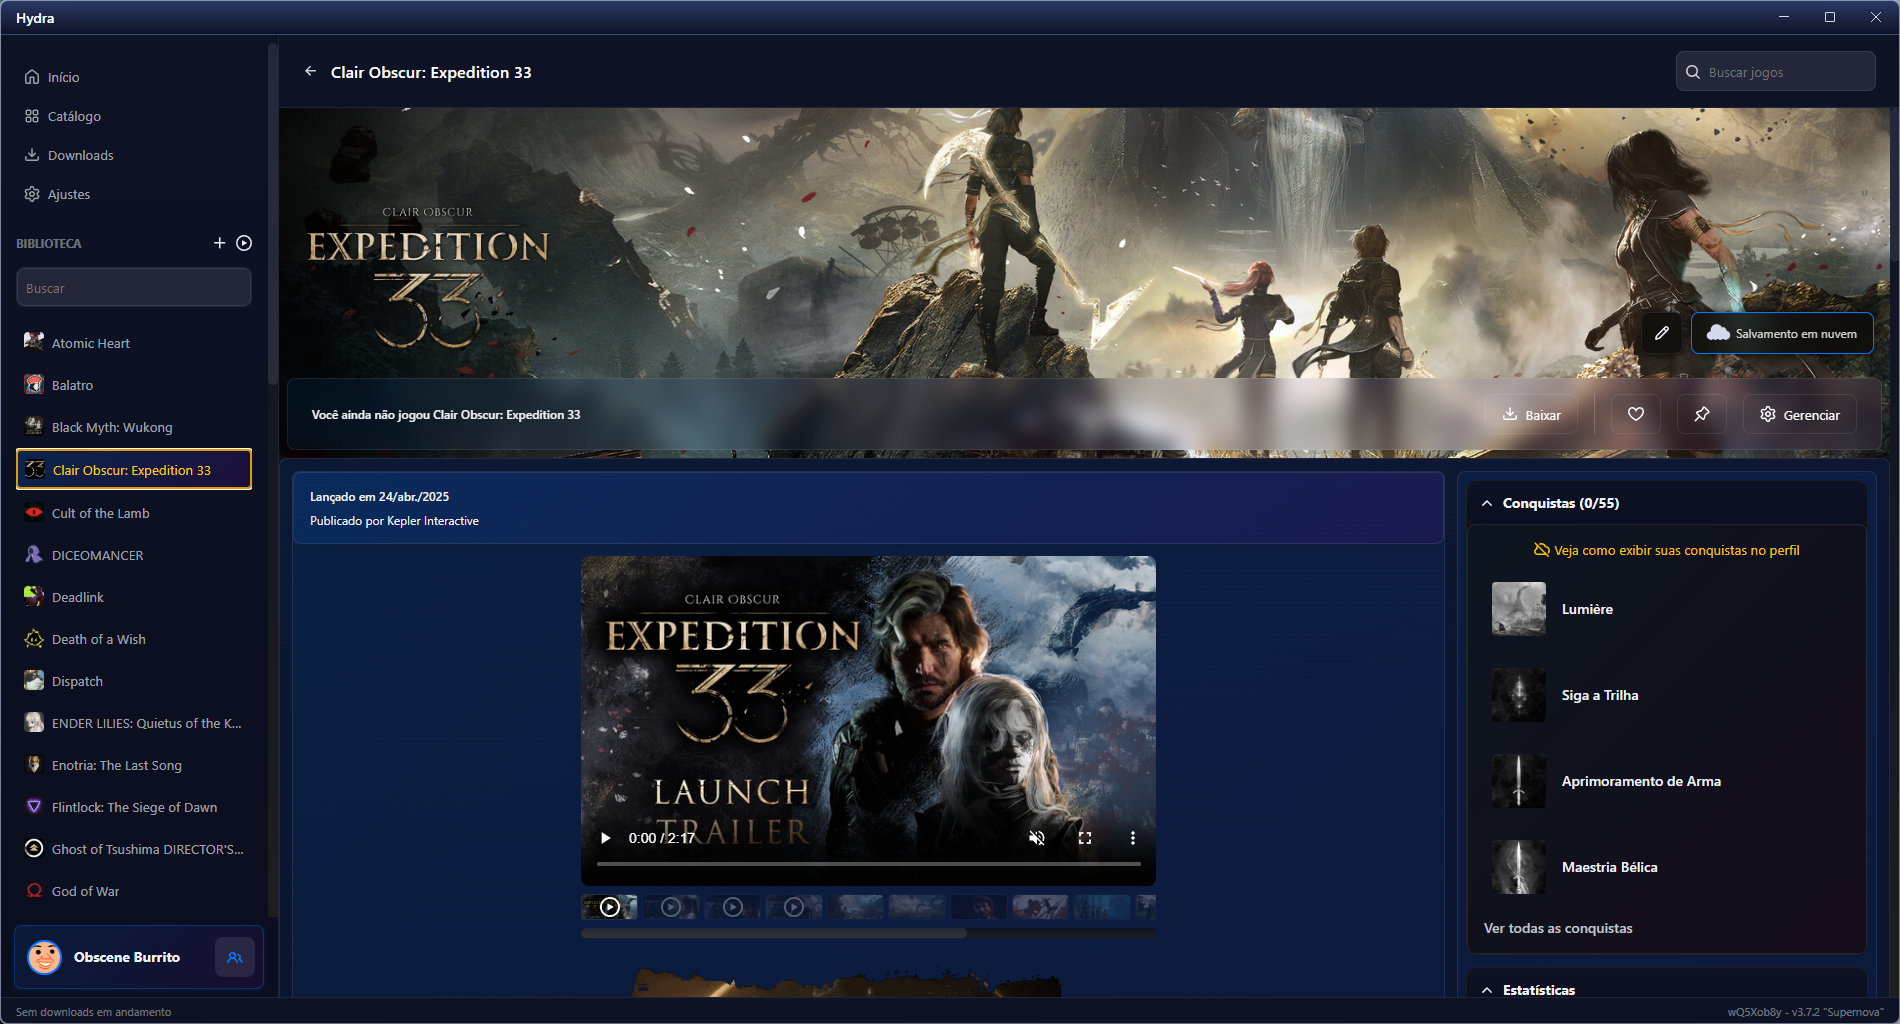
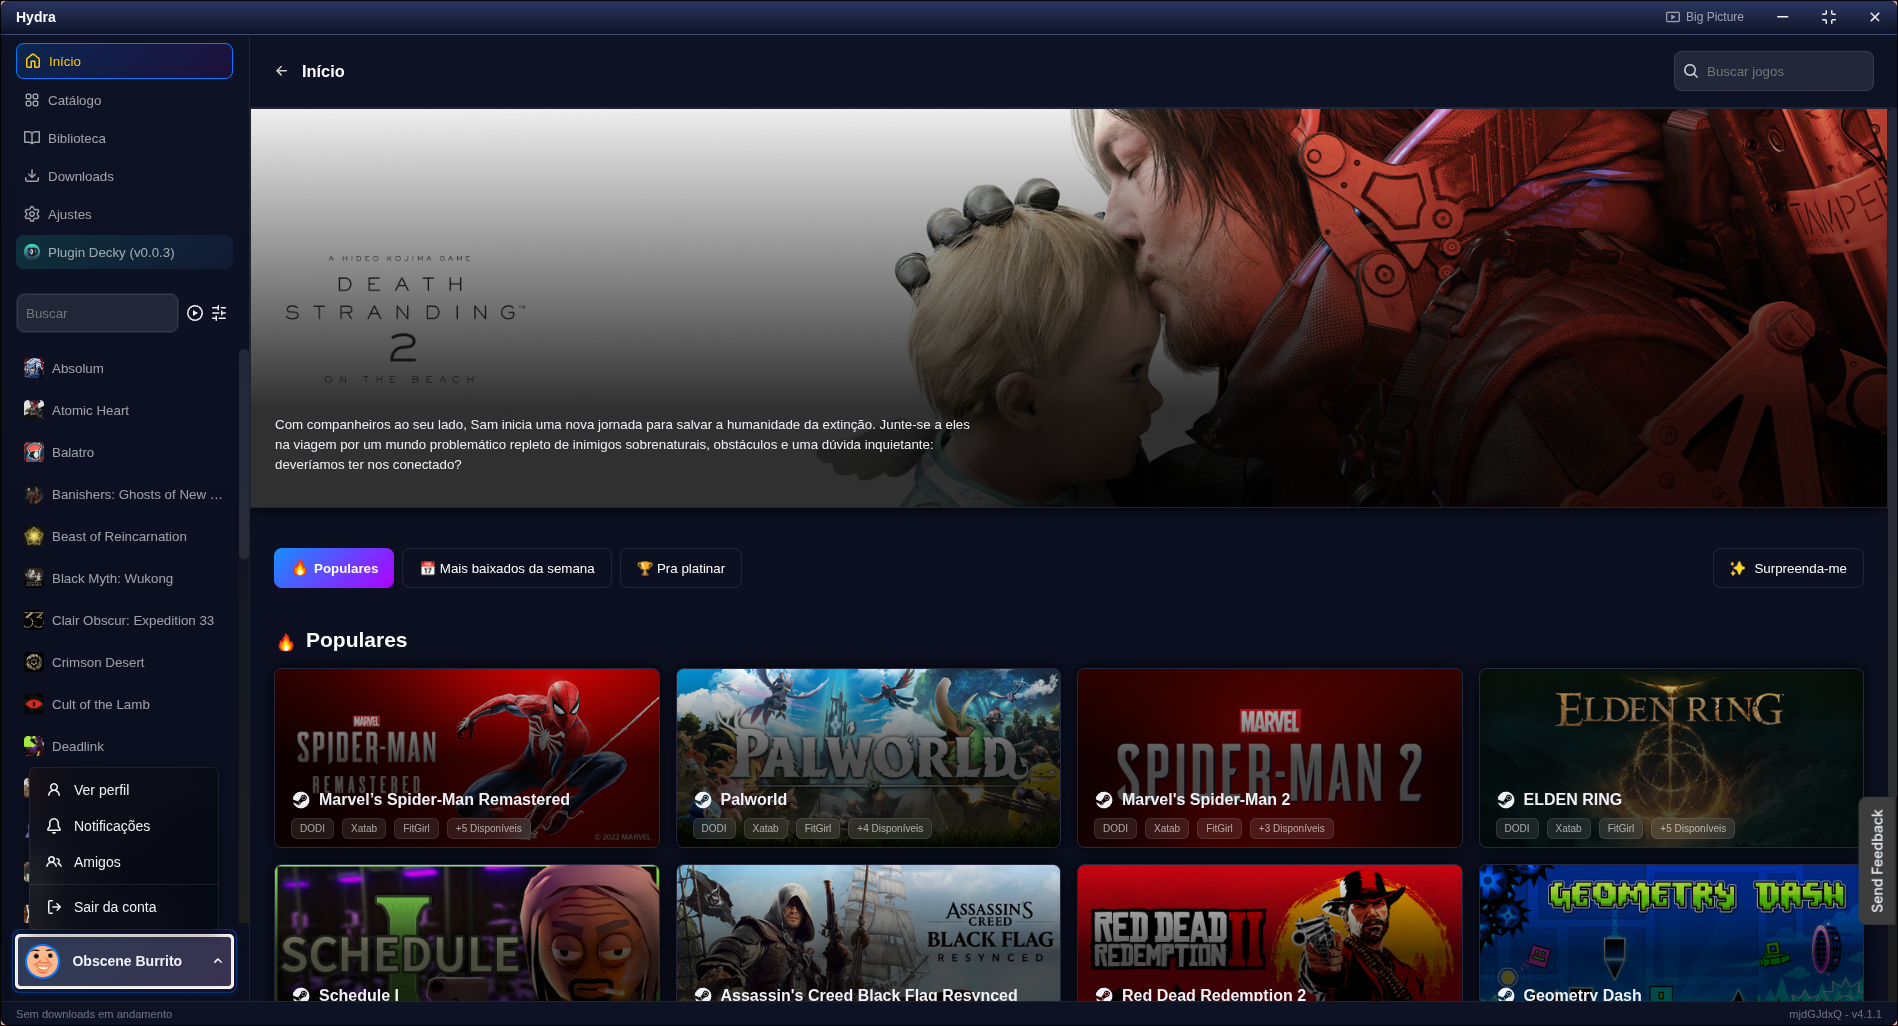
update fusion theme.css to match new classes (#740)
* update fusion theme.css to match new classes

* update fusion screenshot

* add achievement sound to fusion

diff --git a/themes/FusionX-lyYe1dNy/theme.css b/themes/FusionX-lyYe1dNy/theme.css
@@ -1,7 +1,7 @@
 /**
  * @name FusionX
  * @author Inspired by sakasakiking's Playnite FusionX Theme
- * @version 1.0
+ * @version 1.1
  * @description A beautiful and consistently designed theme inspired by the FusionX Playnite theme - featuring a modern dark blue aesthetic with vibrant accent gradients.
  * @source https://github.com/sakasakiking/FusionX
 */
@@ -11,32 +11,32 @@
   --main-color: #2C3A67;
   --main-color-dark: #0D1225;
   --hover-color: #247BA0;
-  
+
   /* Accent Colors - Bright Blue with Purple */
   --accent-blue: #0379FF;
   --accent-blue-light: #2C8FFF;
   --accent-purple: #AD00FF;
   --accent-tone: #FFCC00;
-  
+
   /* Background Colors */
   --background-dark: #212121;
   --background-darker: #1e1e1e;
   --background-panel: #2C2C2C;
   --popup-background: #212121;
   --popup-border: #2E2E2E;
-  
+
   /* Text Colors */
   --text-primary: rgba(255, 255, 255, 0.8);
   --text-secondary: rgba(255, 255, 255, 0.6);
   --text-tertiary: rgba(255, 255, 255, 0.4);
   --text-bright: #FFFFFF;
-  
+
   /* Control Colors */
   --control-background: rgba(255, 255, 255, 0.09);
   --control-hover: rgba(255, 255, 255, 0.14);
   --control-active: rgba(255, 255, 255, 0.22);
   --control-border: rgba(255, 255, 255, 0.09);
-  
+
   /* Utility Colors */
   --shadow-color: rgba(0, 0, 0, 0.5);
   --separator-color: rgba(255, 255, 255, 0.08);
@@ -151,6 +151,12 @@ body {
   fill: var(--accent-blue);
 }
 
+.sidebar-profile__dropdown {
+  top: auto;
+  bottom: 100%;
+  transform-origin: bottom center;
+}
+
 /* Profile Hero (User Profile Page) */
 .profile-hero__user-information {
   background: linear-gradient(135deg, rgba(3, 121, 255, 0.15) 0%, rgba(173, 0, 255, 0.1) 100%);
@@ -163,7 +169,7 @@ body {
   background: linear-gradient(135deg, rgba(3, 121, 255, 0.08) 0%, rgba(173, 0, 255, 0.05) 100%) !important;
   border: 1px solid var(--control-border);
   border-radius: 8px;
-  align-self: center !important;  
+  align-self: center !important;
   margin: 24px;
 }
 
@@ -603,10 +609,9 @@ main {
 .achievement-item--default,
 .achievement-item[data-rarity="default"],
 .achievement-item[data-rarity="bronze"] {
-  background: linear-gradient(135deg, 
-    rgba(139, 69, 19, 0.15) 0%, 
-    rgba(101, 67, 33, 0.1) 100%
-  );
+  background: linear-gradient(135deg,
+      rgba(139, 69, 19, 0.15) 0%,
+      rgba(101, 67, 33, 0.1) 100%);
   border-color: rgba(139, 69, 19, 0.3);
 }
 
@@ -620,10 +625,9 @@ main {
 /* Gold Achievement */
 .achievement-item--gold,
 .achievement-item[data-rarity="gold"] {
-  background: linear-gradient(135deg, 
-    rgba(255, 204, 0, 0.15) 0%, 
-    rgba(218, 165, 32, 0.1) 100%
-  );
+  background: linear-gradient(135deg,
+      rgba(255, 204, 0, 0.15) 0%,
+      rgba(218, 165, 32, 0.1) 100%);
   border-color: rgba(255, 204, 0, 0.4);
 }
 
@@ -636,10 +640,9 @@ main {
 /* Platinum Achievement */
 .achievement-item--platinum,
 .achievement-item[data-rarity="platinum"] {
-  background: linear-gradient(135deg, 
-    rgba(173, 0, 255, 0.18) 0%, 
-    rgba(138, 43, 226, 0.12) 100%
-  );
+  background: linear-gradient(135deg,
+      rgba(173, 0, 255, 0.18) 0%,
+      rgba(138, 43, 226, 0.12) 100%);
   border-color: rgba(173, 0, 255, 0.5);
 }
 
@@ -652,10 +655,9 @@ main {
 /* Hidden Achievement */
 .achievement-item--hidden,
 .achievement-item[data-rarity="hidden"] {
-  background: linear-gradient(135deg, 
-    rgba(64, 64, 64, 0.2) 0%, 
-    rgba(32, 32, 32, 0.15) 100%
-  );
+  background: linear-gradient(135deg,
+      rgba(64, 64, 64, 0.2) 0%,
+      rgba(32, 32, 32, 0.15) 100%);
   border-color: rgba(128, 128, 128, 0.3);
 }
 
@@ -696,10 +698,9 @@ main {
 
 .toast--success {
   border-color: #78ffa0;
-  background: linear-gradient(135deg, 
-    color-mix(in srgb, var(--main-color) 80%, #78ffa0 20%), 
-    color-mix(in srgb, var(--main-color-dark) 80%, #78ffa0 20%)
-  );
+  background: linear-gradient(135deg,
+      color-mix(in srgb, var(--main-color) 80%, #78ffa0 20%),
+      color-mix(in srgb, var(--main-color-dark) 80%, #78ffa0 20%));
   box-shadow: 0 4px 16px rgba(120, 255, 160, 0.4), 0 0 30px rgba(120, 255, 160, 0.2);
 }
 
@@ -709,10 +710,9 @@ main {
 
 .toast--error {
   border-color: #ff6b6b;
-  background: linear-gradient(135deg, 
-    color-mix(in srgb, var(--main-color) 80%, #ff6b6b 20%), 
-    color-mix(in srgb, var(--main-color-dark) 80%, #ff6b6b 20%)
-  );
+  background: linear-gradient(135deg,
+      color-mix(in srgb, var(--main-color) 80%, #ff6b6b 20%),
+      color-mix(in srgb, var(--main-color-dark) 80%, #ff6b6b 20%));
   box-shadow: 0 4px 16px rgba(255, 107, 107, 0.4), 0 0 30px rgba(255, 107, 107, 0.2);
 }
 
@@ -722,10 +722,9 @@ main {
 
 .toast--warning {
   border-color: var(--accent-tone);
-  background: linear-gradient(135deg, 
-    color-mix(in srgb, var(--main-color) 80%, #FFCC00 20%), 
-    color-mix(in srgb, var(--main-color-dark) 80%, #FFCC00 20%)
-  );
+  background: linear-gradient(135deg,
+      color-mix(in srgb, var(--main-color) 80%, #FFCC00 20%),
+      color-mix(in srgb, var(--main-color-dark) 80%, #FFCC00 20%));
   box-shadow: 0 4px 16px rgba(255, 204, 0, 0.4), 0 0 30px rgba(255, 204, 0, 0.2);
 }
 
@@ -743,41 +742,185 @@ main {
 }
 
 /* Achievement Notifications */
+.achievement-notification__outer-container {
+  background: rgba(13, 18, 37, 0.7);
+  backdrop-filter: blur(14px) saturate(140%);
+  -webkit-backdrop-filter: blur(14px) saturate(140%);
+  border: 1px solid rgba(3, 121, 255, 0.25);
+  border-radius: 8px;
+  box-shadow:
+    inset 0 1px 0 rgba(255, 255, 255, 0.08),
+    0 4px 18px rgba(0, 0, 0, 0.5);
+  overflow: hidden;
+}
+
 .achievement-notification__container {
-  background: linear-gradient(135deg, rgba(3, 121, 255, 0.1) 0%, rgba(173, 0, 255, 0.08) 100%);
+  background: linear-gradient(135deg, rgba(3, 121, 255, 0.12) 0%, rgba(173, 0, 255, 0.08) 100%);
   border-radius: 8px;
   border: 1px solid transparent;
   transition: background-color 0.4s ease-in-out, border-color 0.4s ease-in-out;
 }
 
-/* Rare Achievement */
+.achievement-notification__title {
+  color: var(--accent-blue-light);
+  text-shadow: 0 1px 2px rgba(0, 0, 0, 0.5);
+  font-weight: 700;
+}
+
+.achievement-notification__description {
+  color: var(--text-primary);
+}
+
+.achievement-notification__icon {
+  border-radius: 6px;
+  border: 1px solid rgba(3, 121, 255, 0.35);
+  box-shadow: 0 2px 8px rgba(0, 0, 0, 0.4);
+}
+
+.achievement-notification__chip {
+  background: linear-gradient(135deg, var(--accent-blue) 0%, #0258cc 100%) !important;
+  border: 1px solid rgba(3, 121, 255, 0.55) !important;
+  border-radius: 999px !important;
+  box-shadow:
+    inset 0 1px 0 rgba(255, 255, 255, 0.2),
+    0 2px 6px rgba(0, 0, 0, 0.4) !important;
+}
+
+.achievement-notification__chip__label {
+  color: #ffffff;
+  text-shadow: 0 1px 1px rgba(0, 0, 0, 0.4);
+  font-weight: 700;
+}
+
+.achievement-notification__chip__icon path {
+  fill: #ffffff;
+}
+
+/* Rare */
+.achievement-notification--rare .achievement-notification__container {
+  background: linear-gradient(135deg, rgba(3, 121, 255, 0.2) 0%, rgba(44, 143, 255, 0.15) 100%);
+}
+
 .achievement-notification--rare .achievement-notification__icon {
   border-color: var(--accent-blue);
   box-shadow: 0 0 15px rgba(3, 121, 255, 0.5);
   animation: pulseGlow 1.5s infinite ease-in-out;
 }
 
-/* Platinum Achievement */
+.achievement-notification--rare .achievement-notification__chip {
+  background: linear-gradient(135deg, var(--accent-blue-light) 0%, var(--accent-blue) 100%) !important;
+  border-color: rgba(44, 143, 255, 0.75) !important;
+}
+
+/* Gold */
+.achievement-notification--gold .achievement-notification__container {
+  background: linear-gradient(135deg, rgba(255, 204, 0, 0.15) 0%, rgba(218, 165, 32, 0.1) 100%);
+}
+
+.achievement-notification--gold .achievement-notification__icon {
+  border-color: rgba(255, 204, 0, 0.6);
+  box-shadow: 0 0 15px rgba(255, 204, 0, 0.4);
+  animation: pulseGlowGold 1.5s infinite ease-in-out;
+}
+
+.achievement-notification--gold .achievement-notification__chip {
+  background: linear-gradient(135deg, #FFCC00 0%, #cc9f00 100%) !important;
+  border-color: rgba(255, 204, 0, 0.75) !important;
+  box-shadow:
+    inset 0 1px 0 rgba(255, 255, 255, 0.3),
+    0 2px 6px rgba(255, 204, 0, 0.35) !important;
+}
+
+.achievement-notification--gold .achievement-notification__chip__label,
+.achievement-notification--gold .achievement-notification__chip__icon path {
+  color: #1a1000;
+  fill: #1a1000;
+}
+
+/* Platinum */
 .achievement-notification--platinum .achievement-notification__container {
-  background: linear-gradient(135deg, 
-    rgba(173, 0, 255, 0.15) 0%, 
-    rgba(3, 121, 255, 0.12) 100%
-  );
+  background: linear-gradient(135deg, rgba(173, 0, 255, 0.18) 0%, rgba(138, 43, 226, 0.12) 100%);
 }
 
 .achievement-notification--platinum .achievement-notification__icon {
   border: 1px solid var(--accent-purple);
   box-shadow: 0 0 20px rgba(173, 0, 255, 0.6);
-  animation: pulseGlow 1.5s infinite ease-in-out;
+  animation: pulseGlowPlatinum 1.5s infinite ease-in-out;
 }
 
-/* Pulse glow animation for rare/platinum achievements */
+.achievement-notification--platinum .achievement-notification__chip {
+  background: linear-gradient(135deg, var(--accent-purple) 0%, #7a00cc 100%) !important;
+  border-color: rgba(173, 0, 255, 0.75) !important;
+  box-shadow:
+    inset 0 1px 0 rgba(255, 255, 255, 0.2),
+    0 2px 6px rgba(173, 0, 255, 0.4) !important;
+}
+
+/* Hidden */
+.achievement-notification--hidden .achievement-notification__container {
+  background: linear-gradient(135deg, rgba(64, 64, 64, 0.2) 0%, rgba(32, 32, 32, 0.15) 100%);
+}
+
+.achievement-notification--hidden .achievement-notification__icon {
+  border-color: rgba(128, 128, 128, 0.4);
+}
+
+.achievement-notification--hidden .achievement-notification__chip {
+  background: linear-gradient(135deg, #666666 0%, #444444 100%) !important;
+  border-color: rgba(128, 128, 128, 0.5) !important;
+}
+
+/* Bronze / Default */
+.achievement-notification--default .achievement-notification__container,
+.achievement-notification--bronze .achievement-notification__container {
+  background: linear-gradient(135deg, rgba(139, 69, 19, 0.15) 0%, rgba(101, 67, 33, 0.1) 100%);
+}
+
+.achievement-notification--default .achievement-notification__icon,
+.achievement-notification--bronze .achievement-notification__icon {
+  border-color: rgba(139, 69, 19, 0.45);
+  box-shadow: 0 2px 8px rgba(139, 69, 19, 0.3);
+}
+
+.achievement-notification--default .achievement-notification__chip,
+.achievement-notification--bronze .achievement-notification__chip {
+  background: linear-gradient(135deg, #b06020 0%, #8B4513 100%) !important;
+  border-color: rgba(139, 69, 19, 0.6) !important;
+}
+
 @keyframes pulseGlow {
-  0%, 100% {
+
+  0%,
+  100% {
     box-shadow: 0 0 15px rgba(3, 121, 255, 0.5);
   }
+
   50% {
     box-shadow: 0 0 25px rgba(3, 121, 255, 0.8);
+  }
+}
+
+@keyframes pulseGlowGold {
+
+  0%,
+  100% {
+    box-shadow: 0 0 15px rgba(255, 204, 0, 0.4);
+  }
+
+  50% {
+    box-shadow: 0 0 25px rgba(255, 204, 0, 0.7);
+  }
+}
+
+@keyframes pulseGlowPlatinum {
+
+  0%,
+  100% {
+    box-shadow: 0 0 15px rgba(173, 0, 255, 0.5);
+  }
+
+  50% {
+    box-shadow: 0 0 25px rgba(173, 0, 255, 0.8);
   }
 }
 
@@ -817,7 +960,12 @@ small {
 }
 
 /* Typography Enhancements */
-h1, h2, h3, h4, h5, h6 {
+h1,
+h2,
+h3,
+h4,
+h5,
+h6 {
   color: var(--text-bright);
   font-weight: 600;
 }
